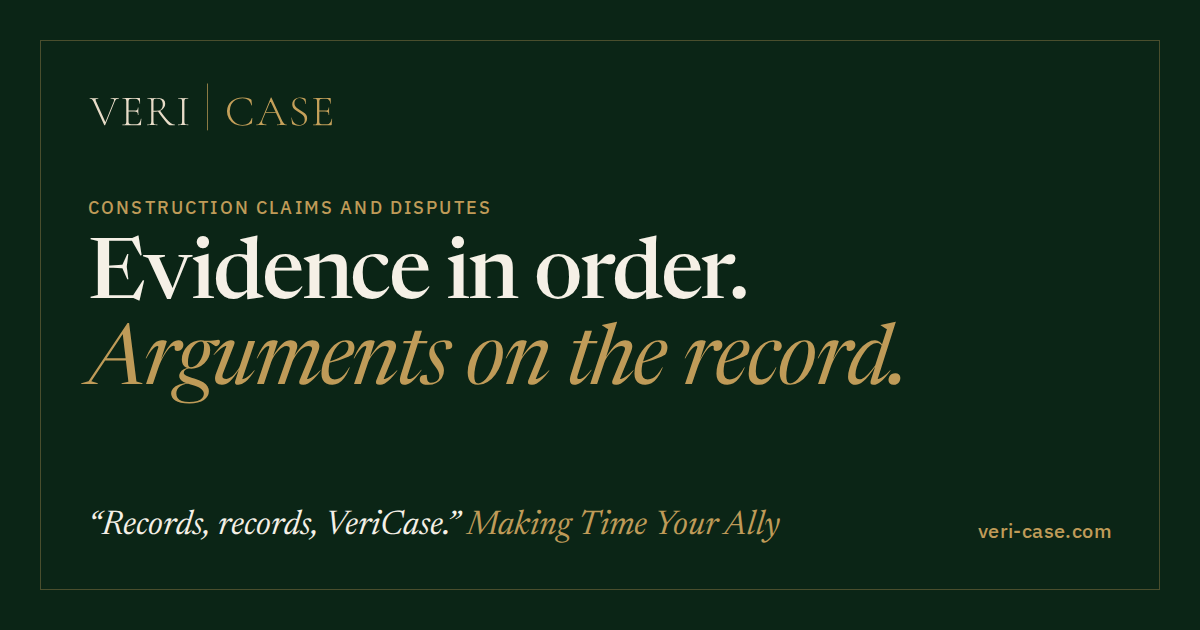
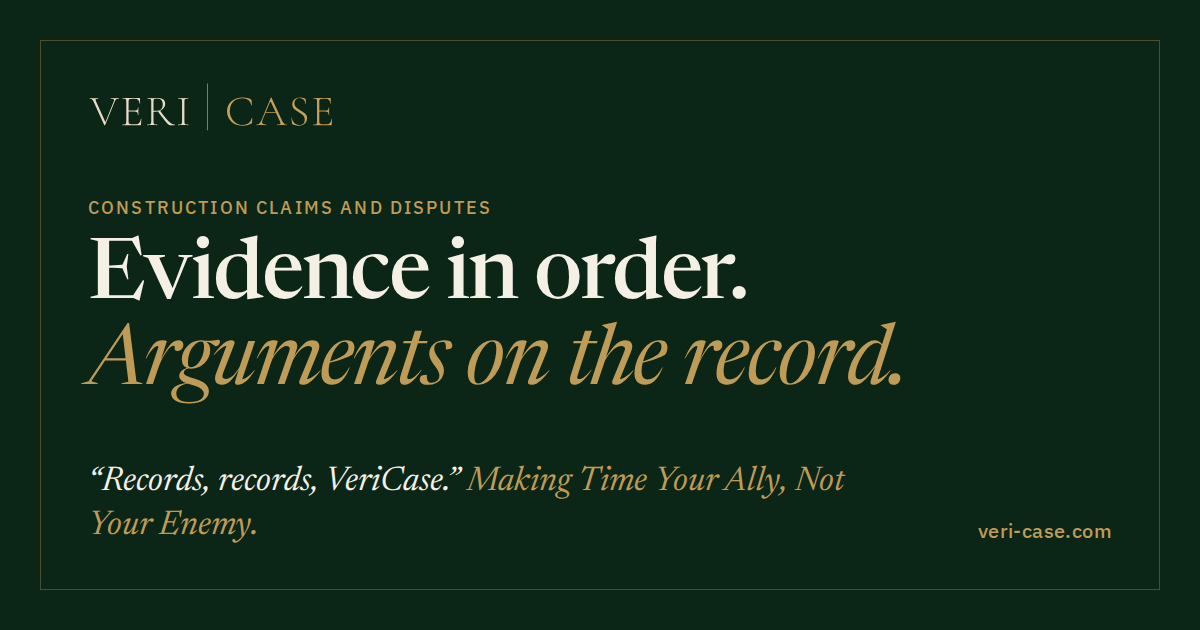
content: "Making Time Your Ally, Not Your Enemy." typed in black, and quicker
At the owner's direction (06 October 2026): the typed line becomes
"Making Time Your Ally, Not Your Enemy.", in two lines, in black rather
than brass. The owner wrote a dash; a comma stands in its place, since
the house style uses none.

The sequence is quicker: the words settle in 450ms (was 600ms) after a
300ms lead (was 400ms), the one-second pauses stay as the owner set
them, and the typing is about twice as quick, with a beat between the
two lines. It is over in about seven and a half seconds. The start
caret is now one line high, and the sharing card carries the new line.

Claude-Session: https://claude.ai/code/session_01AfuLFGXRb5fLuRgK17CnWZ

Changed region(s): [[0.0617, 0.7238, 0.7092, 0.7841], [0.0617, 0.8143, 0.6475, 0.8746]]

diff --git a/frontend/src/components/sections/HeroMotto.jsx b/frontend/src/components/sections/HeroMotto.jsx
@@ -5,13 +5,13 @@ import { onSectionClick } from '@/lib/navigate';
 const { motto } = COVER;
 
 // The motto's timeline, in milliseconds from the moment the fonts are ready (the owner's
-// direction, 06 October 2026, with each pause shortened to a second the same day): "Records,", a
-// pause, "records,", a pause in which a third "records" is expected, "VeriCase.", a pause, and then
-// the line typed patiently beneath it. Each word takes WORD_MS to settle; each pause runs from one
-// word settling to the next beginning. The motion is CSS (clarity.css), so the prerendered page
-// plays it at once.
-export const LEAD_MS = 400;
-export const WORD_MS = 600;
+// direction, 06 October 2026, with each pause shortened to a second and the whole sped up the same
+// day): "Records,", a pause, "records,", a pause in which a third "records" is expected,
+// "VeriCase.", a pause, and then the two lines typed beneath it. Each word takes WORD_MS to settle;
+// each pause runs from one word settling to the next beginning. The motion is CSS (clarity.css), so
+// the prerendered page plays it at once.
+export const LEAD_MS = 300;
+export const WORD_MS = 450;
 export const PAUSES_MS = [1000, 1000, 1000];
 export const WORD_AT = [
   LEAD_MS,
@@ -20,24 +20,27 @@ export const WORD_AT = [
 ];
 export const TYPE_FROM = WORD_AT[2] + WORD_MS + PAUSES_MS[2];
 
-// Patient typing: an unhurried key, a little longer after each space and longer again before the
-// last word, with a fixed, slight unevenness so that it reads as a hand rather than a machine. The
-// times are fixed, so the prerendered page and the app agree.
-const KEY_MS = 125;
-const UNEVEN_MS = [0, 30, -15, 40, -10, 15, 50, -20];
-const AFTER_SPACE_MS = 120;
-const BEFORE_LAST_WORD_MS = 300;
+// Brisk typing: a quick key, a beat after each space and a longer one where the first line ends,
+// with a fixed, slight unevenness so that it reads as a hand rather than a machine. The times are
+// fixed, so the prerendered page and the app agree. `lines` are typed one after the other.
+const KEY_MS = 62;
+const UNEVEN_MS = [0, 14, -8, 18, -5, 8, 22, -10];
+const AFTER_SPACE_MS = 45;
+const BETWEEN_LINES_MS = 380;
 
-export const keyTimes = (text, from = TYPE_FROM) => {
-  const lastSpace = text.lastIndexOf(' ');
+export const keyTimes = (lines, from = TYPE_FROM) => {
   const times = [];
   let t = from;
-  for (let i = 0; i < text.length; i += 1) {
-    times.push(t);
-    t += KEY_MS + UNEVEN_MS[i % UNEVEN_MS.length];
-    if (text[i] === ' ') t += AFTER_SPACE_MS;
-    if (i === lastSpace) t += BEFORE_LAST_WORD_MS;
-  }
+  let n = 0;
+  lines.forEach((line, l) => {
+    if (l > 0) t += BETWEEN_LINES_MS;
+    for (const key of line) {
+      times.push(t);
+      t += KEY_MS + UNEVEN_MS[n % UNEVEN_MS.length];
+      if (key === ' ') t += AFTER_SPACE_MS;
+      n += 1;
+    }
+  });
   return times;
 };
 
@@ -47,7 +50,7 @@ const ms = (n) => `${n}ms`;
 // motto once; the copy that plays is hidden from it, and every word and letter of that copy holds
 // its place from the start, so nothing around it moves.
 export const HeroMotto = () => {
-  const times = keyTimes(motto.line);
+  const times = keyTimes(motto.lines);
   const typedEnd = times[times.length - 1];
   return (
     <div className="hero-motto" style={{ '--caret-from': ms(WORD_AT[2] + WORD_MS), '--typed-end': ms(typedEnd) }}>
@@ -67,9 +70,17 @@ export const HeroMotto = () => {
             </span>
           </span>
           <span className="hero-motto-line">
-            {[...motto.line].map((key, i) => (
-              <span key={i} className="motto-key" style={{ '--d': ms(times[i]), '--w': ms((times[i + 1] ?? times[i]) - times[i]) }}>{key}</span>
-            ))}
+            {motto.lines.map((line, l) => {
+              const start = motto.lines.slice(0, l).join('').length;
+              return (
+                <span key={line} className="hero-motto-line-row">
+                  {[...line].map((key, k) => {
+                    const i = start + k;
+                    return <span key={i} className="motto-key" style={{ '--d': ms(times[i]), '--w': ms((times[i + 1] ?? times[i]) - times[i]) }}>{key}</span>;
+                  })}
+                </span>
+              );
+            })}
           </span>
         </span>
       </p>

diff --git a/frontend/src/components/sections/clarity.css b/frontend/src/components/sections/clarity.css
@@ -30,7 +30,8 @@
 .motto-quote-open { margin-left: -0.36em; }
 /* "VeriCase." takes the second line, beneath "Records, records,". */
 .motto-word-last { display: block; width: fit-content; }
-.hero-motto-line { position: relative; display: block; margin-top: 0.75rem; font-size: clamp(1.375rem, 2.35vw, 2.125rem); font-style: italic; line-height: 1.35; color: var(--vc-brass-700); }
+.hero-motto-line { position: relative; display: block; margin-top: 0.75rem; font-size: clamp(1.375rem, 2.35vw, 2.125rem); font-style: italic; line-height: 1.3; color: var(--vc-ink); }
+.hero-motto-line-row { display: block; }
 .motto-key { position: relative; }
 .hero-motto-source { position: relative; margin-top: 1.5rem; padding-top: 1rem; font-size: 0.9375rem; line-height: 1.55; color: var(--vc-graphite); text-wrap: pretty; }
 .hero-motto-source::before { content: ''; position: absolute; top: 0; left: 0; width: 2.5rem; height: 1px; background: var(--vc-brass-400); transform-origin: left; }
@@ -42,14 +43,14 @@
    public/index.html) so that it never plays in a fallback face. Reduced motion, print and pages
    without scripts show it whole. */
 @media screen and (prefers-reduced-motion: no-preference) {
-  .hero-motto .motto-word { animation: motto-word 600ms var(--ease-settle) var(--at) both; }
-  .hero-motto .motto-key { animation: motto-key 90ms ease-out var(--d) both; }
+  .hero-motto .motto-word { animation: motto-word 450ms var(--ease-settle) var(--at) both; }
+  .hero-motto .motto-key { animation: motto-key 60ms ease-out var(--d) both; }
   .hero-motto .motto-key::after, .hero-motto-line::before { content: ''; position: absolute; top: 0.22em; bottom: 0.1em; width: 1.5px; background: var(--vc-brass-700); opacity: 0; pointer-events: none; }
   .hero-motto .motto-key::after { right: -1px; animation: motto-caret var(--w) step-end var(--d); }
-  .hero-motto .motto-key:last-child::after { animation: motto-blink 1060ms step-end var(--d) 2; }
-  .hero-motto-line::before { left: 0; top: 0.3em; bottom: 0.18em; animation: motto-blink 1000ms step-end var(--caret-from); }
-  .hero-motto-source::before { animation: motto-rule 500ms var(--ease-settle) calc(var(--typed-end) + 700ms) both; }
-  .hero-motto-source > * { animation: motto-fade 700ms var(--ease-settle) calc(var(--typed-end) + 1000ms) both; }
+  .hero-motto-line-row:last-child .motto-key:last-child::after { animation: motto-blink 900ms step-end var(--d) 2; }
+  .hero-motto-line::before { left: 0; top: 0.22em; bottom: auto; height: 0.95em; animation: motto-blink 1000ms step-end var(--caret-from); }
+  .hero-motto-source::before { animation: motto-rule 400ms var(--ease-settle) calc(var(--typed-end) + 300ms) both; }
+  .hero-motto-source > * { animation: motto-fade 500ms var(--ease-settle) calc(var(--typed-end) + 500ms) both; }
   html:not(.fonts-ready) .hero-motto *, html:not(.fonts-ready) .hero-motto *::before, html:not(.fonts-ready) .hero-motto *::after { animation-play-state: paused; }
 }
 @keyframes motto-word { from { opacity: 0; transform: translateY(0.22em); } to { opacity: 1; transform: none; } }

diff --git a/frontend/src/components/sections/HeroMotto.test.jsx b/frontend/src/components/sections/HeroMotto.test.jsx
@@ -26,20 +26,22 @@ test('the timeline keeps the owner\'s pauses: a second after each word, then the
   expect(PAUSES_MS).toEqual([1000, 1000, 1000]);
 });
 
-test('the line is typed patiently: one key at a time, never faster than ten a second', () => {
-  const times = keyTimes(motto.line);
-  expect(times).toHaveLength(motto.line.length);
+test('the two lines are typed briskly, one key at a time, with the longest beat between them', () => {
+  const typed = motto.lines.join('');
+  const times = keyTimes(motto.lines);
+  expect(times).toHaveLength(typed.length);
   expect(times[0]).toBe(TYPE_FROM);
-  times.slice(1).forEach((t, i) => expect(t - times[i]).toBeGreaterThanOrEqual(100));
-  // A longer pause before the last word than between any two letters of a word.
-  const last = motto.line.lastIndexOf(' ') + 1;
   const gaps = times.slice(1).map((t, i) => t - times[i]);
-  expect(gaps[last - 1]).toBe(Math.max(...gaps));
+  gaps.forEach((g) => expect(g).toBeGreaterThanOrEqual(50));
+  expect(gaps[motto.lines[0].length - 1]).toBe(Math.max(...gaps));
+  // The whole sequence, typing included, is over in under eight seconds.
+  expect(times[times.length - 1]).toBeLessThan(8000);
 });
 
 test('assistive technology reads the whole motto once; the copy that plays is hidden from it', () => {
   const el = html();
-  expect(motto.whole).toBe(`“${motto.words.join(' ')} ${motto.brand}” ${motto.line}.`);
+  expect(motto.whole).toBe(`“${motto.words.join(' ')} ${motto.brand}” ${motto.lines.join(' ')}`);
+  expect(motto.lines).toEqual(['Making Time Your Ally,', 'Not Your Enemy.']);
   expect(el.querySelector('.sr-only').textContent).toBe(motto.whole);
   const visual = el.querySelector('.hero-motto-visual');
   expect(visual.getAttribute('aria-hidden')).toBe('true');
@@ -48,7 +50,8 @@ test('assistive technology reads the whole motto once; the copy that plays is hi
   expect(visual.querySelector('.hero-motto-words').textContent).toBe(`“${motto.words.join(' ')} ${motto.brand}”`);
   expect(visual.querySelector('.motto-quote-open').textContent).toBe('“');
   const keys = [...visual.querySelectorAll('.motto-key')];
-  expect(keys.map((k) => k.textContent).join('')).toBe(motto.line);
+  expect(keys.map((k) => k.textContent).join('')).toBe(motto.lines.join(''));
+  expect([...visual.querySelectorAll('.hero-motto-line-row')].map((r) => r.textContent)).toEqual(motto.lines);
   expect(keys[0].getAttribute('style')).toContain(`--d:${TYPE_FROM}ms`);
 });
 

diff --git a/frontend/src/content/home.js b/frontend/src/content/home.js
@@ -58,8 +58,10 @@ export const COVER = {
     words: ['Records,', 'records,'],
     brand: 'VeriCase.',
     close: '”',
-    line: 'Making Time Your Ally',
-    whole: '“Records, records, VeriCase.” Making Time Your Ally.',
+    // Typed in two lines (owner, 06 October 2026), with a comma where the owner wrote a dash,
+    // which the house style does not use.
+    lines: ['Making Time Your Ally,', 'Not Your Enemy.'],
+    whole: '“Records, records, VeriCase.” Making Time Your Ally, Not Your Enemy.',
     attribution: 'Adapted from Max W. Abrahamson.',
     toPassage: 'Read the passage',
   },

diff --git a/frontend/og/og.html b/frontend/og/og.html
@@ -32,7 +32,7 @@
   <img class="logo" src="../public/logo-reversed.svg" alt="VeriCase" />
   <p class="kicker">Construction claims and disputes</p>
   <h1><span>Evidence in order.</span> <em>Arguments on the record.</em></h1>
-  <p class="lead"><em>“Records, records, VeriCase.”</em> Making Time Your Ally</p>
+  <p class="lead"><em>“Records, records, VeriCase.”</em> Making Time Your Ally, Not Your Enemy.</p>
   <p class="url">veri-case.com</p>
 </body>
 </html>

diff --git a/docs/design/current-contract.md b/docs/design/current-contract.md
@@ -4,7 +4,7 @@ Effective 03 October 2026. The owner authorised implementation of the [consolida
 
 ## Identity and composition
 
-Retain the genuine VeriCase wordmark, forest green, paper, parchment and brass, self-hosted Newsreader and IBM Plex. The records on the illustrations’ ink panels are old ivory paper (`--vc-ivory`, #F0E7D2) with a faint laid-paper grain (owner, 06 October 2026); the opening figure, the document beside its file record, keeps the page’s light paper at the owner’s request. The favicon (the wordmark’s V in brass, set large on the header’s ink green; the owner’s choice of 06 October 2026, for legibility in a 16 pixel tab) and the app icons (the V | C monogram) are generated from the wordmark by `frontend/scripts/render-icons.mjs`; the sharing card `og-card.png` is rendered from `frontend/og/og.html` by `frontend/scripts/render-og.mjs` and shows the opening copy, not a product screen. The opening establishes construction claims and commercial teams; opposite its kicker, the motto “Records, records, VeriCase.” Making Time Your Ally. plays once in CSS, in display italic within quotation marks (a second’s pause after each word before the line is typed), adapted from Max W. Abrahamson’s three lessons and credited beneath with a link to the passage. Directly after the opening, “Why VeriCase exists” quotes the passage in full, with “meticulously established records” emphasised and so marked, and closes: “They are the very grounds on which VeriCase was built.” (E17, G11; owner, 06 October 2026). It is followed by a wide illustration of a document read beside its file record, drawn in the page’s own type and colours as a figure in an expert’s report would be, with marginal notes naming each part. Four practical jobs lead to the substantive preparation, chronology, research, rebuttal, drafting, collaboration and source-review sections.
+Retain the genuine VeriCase wordmark, forest green, paper, parchment and brass, self-hosted Newsreader and IBM Plex. The records on the illustrations’ ink panels are old ivory paper (`--vc-ivory`, #F0E7D2) with a faint laid-paper grain (owner, 06 October 2026); the opening figure, the document beside its file record, keeps the page’s light paper at the owner’s request. The favicon (the wordmark’s V in brass, set large on the header’s ink green; the owner’s choice of 06 October 2026, for legibility in a 16 pixel tab) and the app icons (the V | C monogram) are generated from the wordmark by `frontend/scripts/render-icons.mjs`; the sharing card `og-card.png` is rendered from `frontend/og/og.html` by `frontend/scripts/render-og.mjs` and shows the opening copy, not a product screen. The opening establishes construction claims and commercial teams; opposite its kicker, the motto “Records, records, VeriCase.” Making Time Your Ally, Not Your Enemy. plays once in CSS, in display italic within quotation marks (a second’s pause after each word before the two lines are typed briskly, in black), adapted from Max W. Abrahamson’s three lessons and credited beneath with a link to the passage. Directly after the opening, “Why VeriCase exists” quotes the passage in full, with “meticulously established records” emphasised and so marked, and closes: “They are the very grounds on which VeriCase was built.” (E17, G11; owner, 06 October 2026). It is followed by a wide illustration of a document read beside its file record, drawn in the page’s own type and colours as a figure in an expert’s report would be, with marginal notes naming each part. Four practical jobs lead to the substantive preparation, chronology, research, rebuttal, drafting, collaboration and source-review sections.
 
 Section design (owner, 06 October 2026, “the thread”): each capability section reads as a journey. Its heading is followed by the issue, the problem as the reader meets it in a dispute, set as the section’s one large statement in Newsreader; the method, what VeriCase does, in IBM Plex; the steps, each a brass point on one 2px brass-400 line, with its title in Newsreader and its text in ink; and a lead-in in Newsreader italic, brass-700, introducing the illustration below. From 768px the line runs on into the illustration’s brass top rule, and from 1024px the introduction stays in view beside the steps where the window is tall enough. The line draws once, from the top, when it comes into view; reduced motion, print and pages without the script show it drawn. No feature grids, hairline lists, numeric counters or graphite body text; graphite is kept for a step’s qualification, set smaller than the step. Figures in a section stay smaller and lighter than its issue.
 

diff --git a/docs/design/website-copy-2026-10-03.md b/docs/design/website-copy-2026-10-03.md
@@ -32,11 +32,14 @@ Motto, opposite the heading from 1024 pixels on the same baseline as “Evidence
 
 *“Records, records, VeriCase.”*
 
-*Making Time Your Ally*
+*Making Time Your Ally,*
+*Not Your Enemy.*
+
+(Typed in two lines, in black. The owner wrote “Making Time Your Ally - Not Your Enemy.”; a comma stands in place of the dash, which the house style does not use.)
 
 Credit beneath it: Adapted from Max W. Abrahamson. [Read the passage](#lessons)
 
-It plays once from first paint: “Records,”, a one-second pause, “records,”, a one-second pause where a third “records” is expected, “VeriCase.”, a one-second pause, then “Making Time Your Ally” typed patiently with a brass caret, and the credit last. Reduced motion, print and pages without scripts show it whole; assistive technology reads “Records, records, VeriCase.” Making Time Your Ally. once.
+It plays once from first paint, in about seven and a half seconds: “Records,”, a one-second pause, “records,”, a one-second pause where a third “records” is expected, “VeriCase.”, a one-second pause, then the two lines typed briskly with a brass caret, and the credit last. Reduced motion, print and pages without scripts show it whole; assistive technology reads “Records, records, VeriCase.” Making Time Your Ally, Not Your Enemy. once.
 
 ## Why VeriCase exists
 
